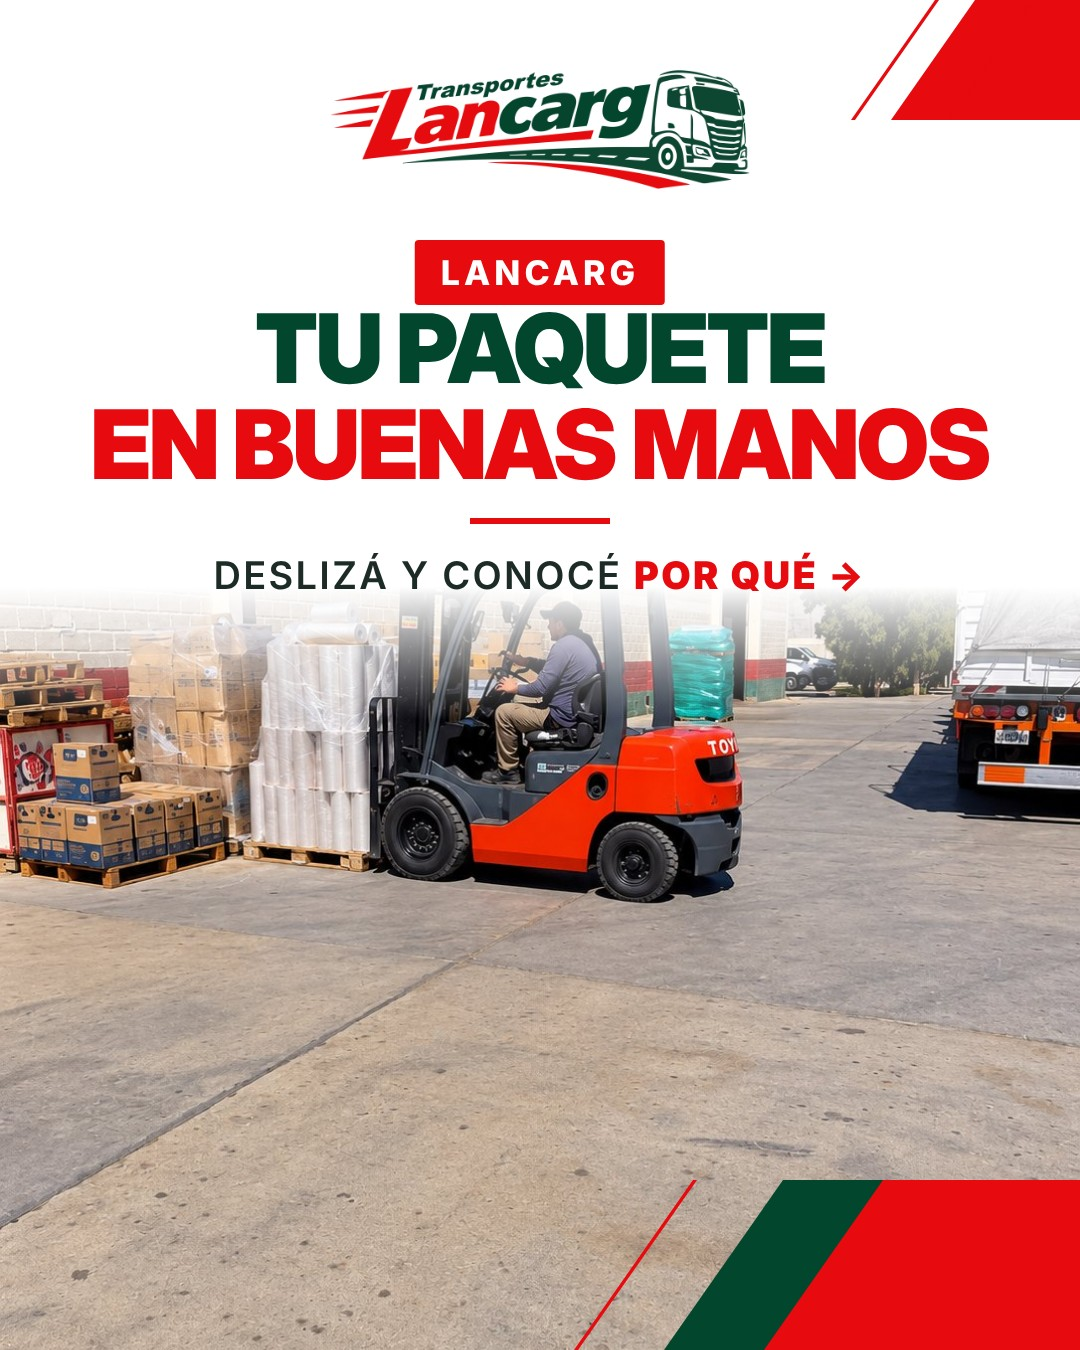
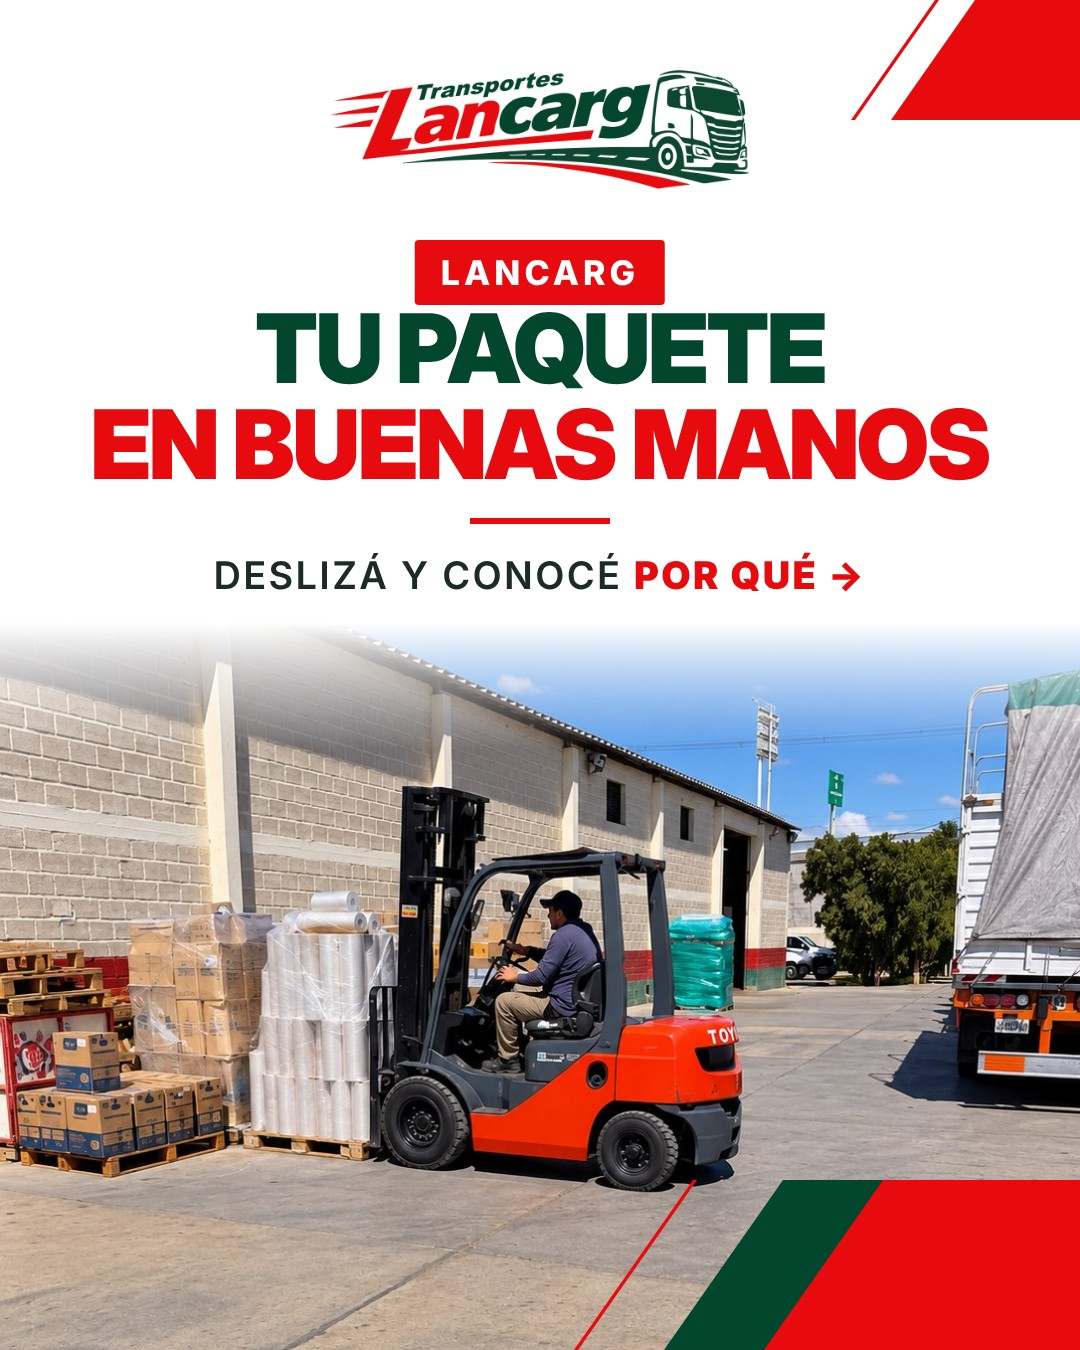
Carrusel 9/11: portada reencuadrada, placa 2 con camion en ruta
Claude-Session: https://claude.ai/code/session_014Mzmm57TWdtJRgNHLty5PC

diff --git a/publicaciones/2026-11-09-carrusel-buenas-manos/diseno.html b/publicaciones/2026-11-09-carrusel-buenas-manos/diseno.html
@@ -23,7 +23,7 @@ h1 .r{color:#E70A0F}
 .cta small{display:block;font-size:26px;font-weight:600;opacity:.9}
 </style></head><body>
 <div class="slide feed">
-<img class="photo" src="../../fotos/operario-de-montacargas-en-deposito-industrial.jpg" style="top:520px;height:830px;object-position:50% 60%;-webkit-mask-image:linear-gradient(180deg,transparent 0%,transparent 8%,rgba(0,0,0,.5) 16%,#000 24%);mask-image:linear-gradient(180deg,transparent 0%,transparent 8%,rgba(0,0,0,.5) 16%,#000 24%)">
+<img class="photo" src="../../fotos/operario-de-montacargas-en-deposito-industrial.jpg" style="top:560px;height:790px;object-position:50% 18%;-webkit-mask-image:linear-gradient(180deg,transparent 0%,transparent 8%,rgba(0,0,0,.5) 16%,#000 24%);mask-image:linear-gradient(180deg,transparent 0%,transparent 8%,rgba(0,0,0,.5) 16%,#000 24%)">
 <div class="d tr1" style="height:140px"></div><div class="d tr2" style="height:140px"></div>
 <img class="logo" src="../../marca/versiones/1-principal-color.png" style="top:70px;width:420px">
 <div class="kick" style="top:240px">Lancarg</div>
@@ -45,7 +45,7 @@ h1 .r{color:#E70A0F}
 <div class="cta"><small>Cotizá por WhatsApp</small>264 454-3612</div>
 </div>
 <div class="slide feed">
-<img class="photo" src="../../fotos/deposito-interior-vista-desde-arriba.jpg" style="top:600px;height:750px;object-position:50% 60%;-webkit-mask-image:linear-gradient(180deg,transparent 0%,transparent 8%,rgba(0,0,0,.5) 16%,#000 24%);mask-image:linear-gradient(180deg,transparent 0%,transparent 8%,rgba(0,0,0,.5) 16%,#000 24%)">
+<img class="photo" src="../../fotos/scania-blanca-cruzando-el-desierto-al-atardecer.jpg" style="top:560px;height:640px;object-position:62% 50%;-webkit-mask-image:linear-gradient(180deg,transparent 0%,transparent 8%,rgba(0,0,0,.5) 16%,#000 24%);mask-image:linear-gradient(180deg,transparent 0%,transparent 8%,rgba(0,0,0,.5) 16%,#000 24%)">
 <div class="d tr1" style="height:140px"></div><div class="d tr2" style="height:140px"></div>
 <img class="logo" src="../../marca/versiones/1-principal-color.png" style="top:70px;width:420px">
 <h1 style="top:330px;font-size:82px">Puntualidad<br><span class="r">de verdad</span></h1>

diff --git a/plantillas/generar_carrusel_buenas_manos.py b/plantillas/generar_carrusel_buenas_manos.py
@@ -13,8 +13,8 @@ def ic(name, size=150):
     return (f'<div style="width:{size}px;height:{size}px;border-radius:50%;background:#E70A0F;display:grid;place-items:center;box-shadow:0 10px 24px rgba(231,10,15,.3)">'
             f'<svg viewBox="0 0 100 100" style="width:{int(size*.56)}px;height:{int(size*.56)}px">{ICON[name]}</svg></div>')
 
-def paso(n, icon, titulo, sub, foto, pos="50% 50%"):
-    return feed(photo=foto, photo_top=600, photo_pos=pos, fade=(8, 24), title=titulo, title_size=82, sub=sub,
+def paso(n, icon, titulo, sub, foto, pos="50% 50%", ph=None, top=600):
+    return feed(photo=foto, photo_top=top, photo_h=ph, photo_pos=pos, fade=(8, 24), title=titulo, title_size=82, sub=sub,
                 top={"logo": 70, "kick": 0, "h1": 330},
                 extra=f'<div style="position:absolute;left:50%;top:205px;transform:translateX(-50%);z-index:4">{ic(icon, 110)}</div>'
                       f'<div style="position:absolute;left:70px;top:230px;font-family:Inter Display,Inter;font-weight:300;font-size:90px;color:transparent;-webkit-text-stroke:3px #E70A0F;z-index:4">0{n}</div>')
@@ -25,13 +25,13 @@ beneficios = "".join(
     for i, t in [("escudo", "Cuidado de<br>punta a punta"), ("reloj", "Puntualidad<br>de verdad"), ("pin", "Rutas que<br>conocemos")])
 
 slides = [
-    feed(photo="operario-de-montacargas-en-deposito-industrial.jpg", photo_top=520, photo_pos="50% 60%", fade=(8, 24),
+    feed(photo="operario-de-montacargas-en-deposito-industrial.jpg", photo_top=560, photo_pos="50% 18%", fade=(8, 24),
          kick="Lancarg", title='Tu paquete<br><span class="r">en buenas manos</span>', title_size=96,
          sub='Deslizá y conocé <b>por qué →</b>', cta=False),
     paso(1, "escudo", 'Cuidado de<br><span class="r">punta a punta</span>', 'Del inicio <b>al destino</b>',
          "interior-de-deposito-san-juan-con-autoelevador-toyota.jpg", "50% 55%"),
     paso(2, "reloj", 'Puntualidad<br><span class="r">de verdad</span>', 'Camiones <b>todos los días</b>',
-         "deposito-interior-vista-desde-arriba.jpg", "50% 60%"),
+         "scania-blanca-cruzando-el-desierto-al-atardecer.jpg", "62% 50%", ph=640, top=560),
     paso(3, "pin", 'Rutas que conocemos<br><span class="r">de memoria</span>', 'Buenos Aires, Córdoba y Rosario<br><b>↔ San Juan y Mendoza</b>',
          "planchada-descarga-deposito-sj.jpg", "50% 60%"),
     feed(title='¿Querés<br><span class="r">tranquilidad?</span>', title_size=100, top={"logo": 70, "kick": 0, "h1": 260},
